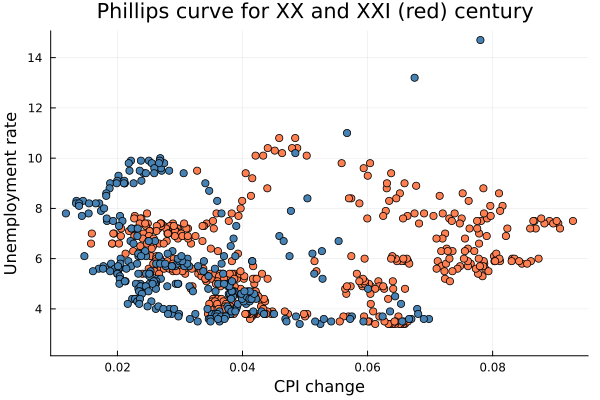
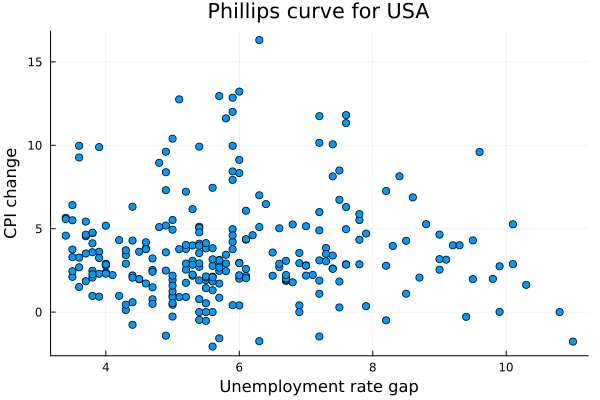
example - phillips

diff --git a/docs/src/man/example.md b/docs/src/man/example.md
@@ -1,34 +1,70 @@
 
 ## Regime switching Phillips curve
 
-One of the most popular macroeconomic relationships is the trade-off between inflation and unemployment. The so-called Phillips curve is discussed in both introductory macroeconomics courses and at meetings of central banks.
+One of the most popular macroeconomic relationships is the trade-off between inflation and unemployment. The so-called Phillips curve is discussed in both introductory macroeconomics courses and at meetings of central banks. The curve is an empirical observation that provide some evidence of a stylized fact that the inflation falls during recessions and rises during booms.
 
 However, many policymakers and academic economists have argued that the historical relationship has changed over time. The 'flattening' of the Phillips curve poses a challenge for policymakers, as it can imply that countercyclical policy may not be effective in steering inflation toward the established central bank's target.
 
 To investigate the time-varying nature of the Phillips curve, we estimate a Markov switching model.
 
-First we would need a dataset with inflation and unemployment. We will use the data from the Federal Reserve Bank of St. Louis (FRED) database. The data are available in the repo of the package.
+First we would need a dataset with quarterly inflation and unemployment. We will use the data from the Federal Reserve Bank of St. Louis (FRED) database. The data are available in the repo of the package.
 
-```@example
+```@example phillips
 using MarSwitching
 using DataFrames
 using CSV
 
 df = CSV.read("my_assets/philips.csv", DataFrame)
+
+model_df = dropmissing(select(df, [:inflation_q, :unrate, :infexp]))  
 ```
 
 Let's see how the relationship looks like in the data:
 
-```@example
+```jldoctest
 using Plots
-plot(df.cpi_ch, df.unemp, zcolor = (df.date .> DateTime("2000-01-01")),
-     c = palette([:coral, :steelblue], 7), seriestype=:scatter, legend = :none,
-     xlabel = "CPI change", ylabel = "Unemployment rate", title = "Phillips curve for XX and XXI (red) century ")
+
+plot_df = filter(x -> x.inflation_q .> -5, model_df)
+
+phil_plot = plot(plot_df.unrate, plot_df.inflation_q,
+                seriestype=:scatter, legend = :none,
+                xlabel = "Unemployment rate gap", ylabel = "CPI change", title = "Phillips curve for USA")
 ```
 ![Plot](my_assets/philips.png)
 
-Overall, the relationship is far from being clear. However, we may see that indeed the relationship in the XX century seems to be negative, at least in a non-linear way. One cannot say it about the current century, when the data is very much random (not to mention the evident autocorrelation). 
+Overall, the relationship is far from being clear. The slope of plotted data is just slightly negative. 
 
+```jldoctest
+x = [ones(size(model_df)[1]) model_df.unrate]
+(x'x)^(-1)*(x'model_df.inflation_q)
+```
 
-Now, how can theory guide our model specification? The developments in New Keynesian economic theory, provides a model where the
+However, as it often the case, plotting scatterplots falls short when trying to find evidence of more complex phenomena. 
 
+Now, how can theory guide our model specification? The developments in New Keynesian economic theory, provides a model where: 
+
+- Inflation is sticky, i.e. it does not adjust immediately to changes in the economy. This might be because of the contracts between firms and workers, or because of the inertia in the price setting process.
+
+- Inflation expectations matter. The economic agents keep in mind the inflation target of the central bank or the past inflation when setting prices.
+
+Both of the reasons above suggests the use of another variable, namely inflation moving average. Altough obvious frome purely econometric point of view, addition of this variable is well grounded in theory. 
+
+```jldoctest
+x = [ones(size(model_df)[1]) model_df.unrate model_df.infexp]
+(x'x)^(-1)*(x'model_df.inflation_q)
+```
+
+Indeed, once we add the inflation expectations, the slope of the Phillips curve becomes more negative.
+
+Now, in order to check the time-varying nature of the Phillips curve, or the so-called "flattening" of thereof. We will estimate a Markov switching model. 
+
+```jldoctest
+using Random
+
+Random.seed!(1)
+model = MSModel(model_df.inflation_q, 2, 
+                exog_switching_vars = [model_df.unrate model_df.infexp],
+                switching_var = true)
+
+summary_msm(model) 
+```
